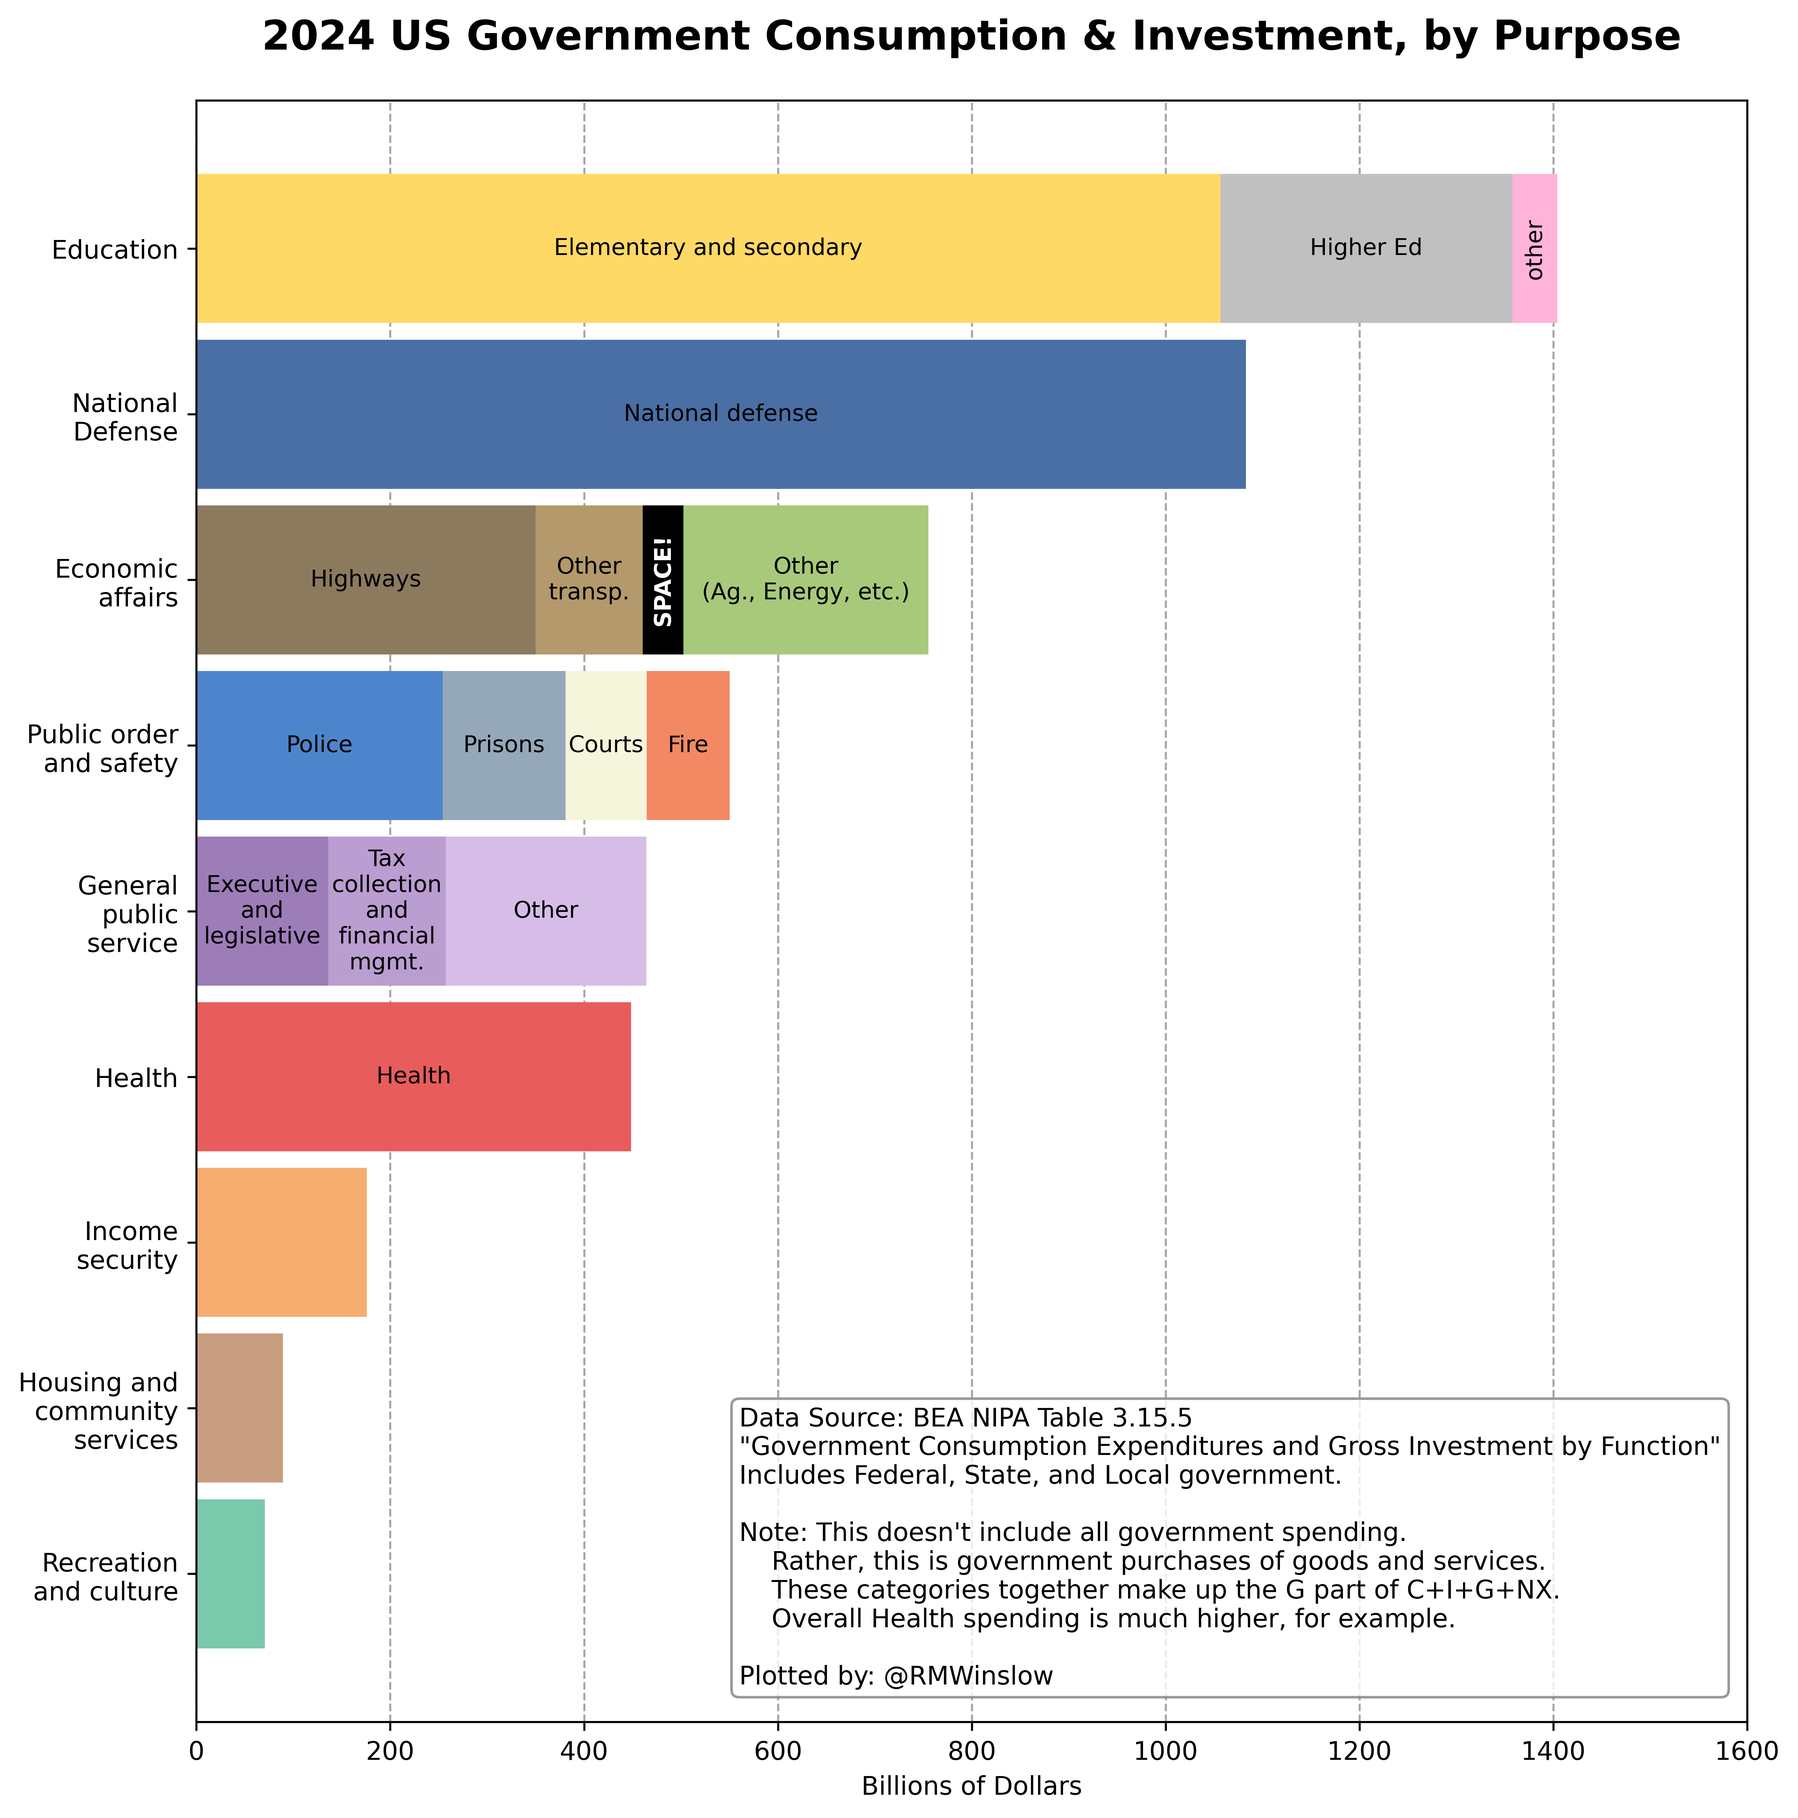
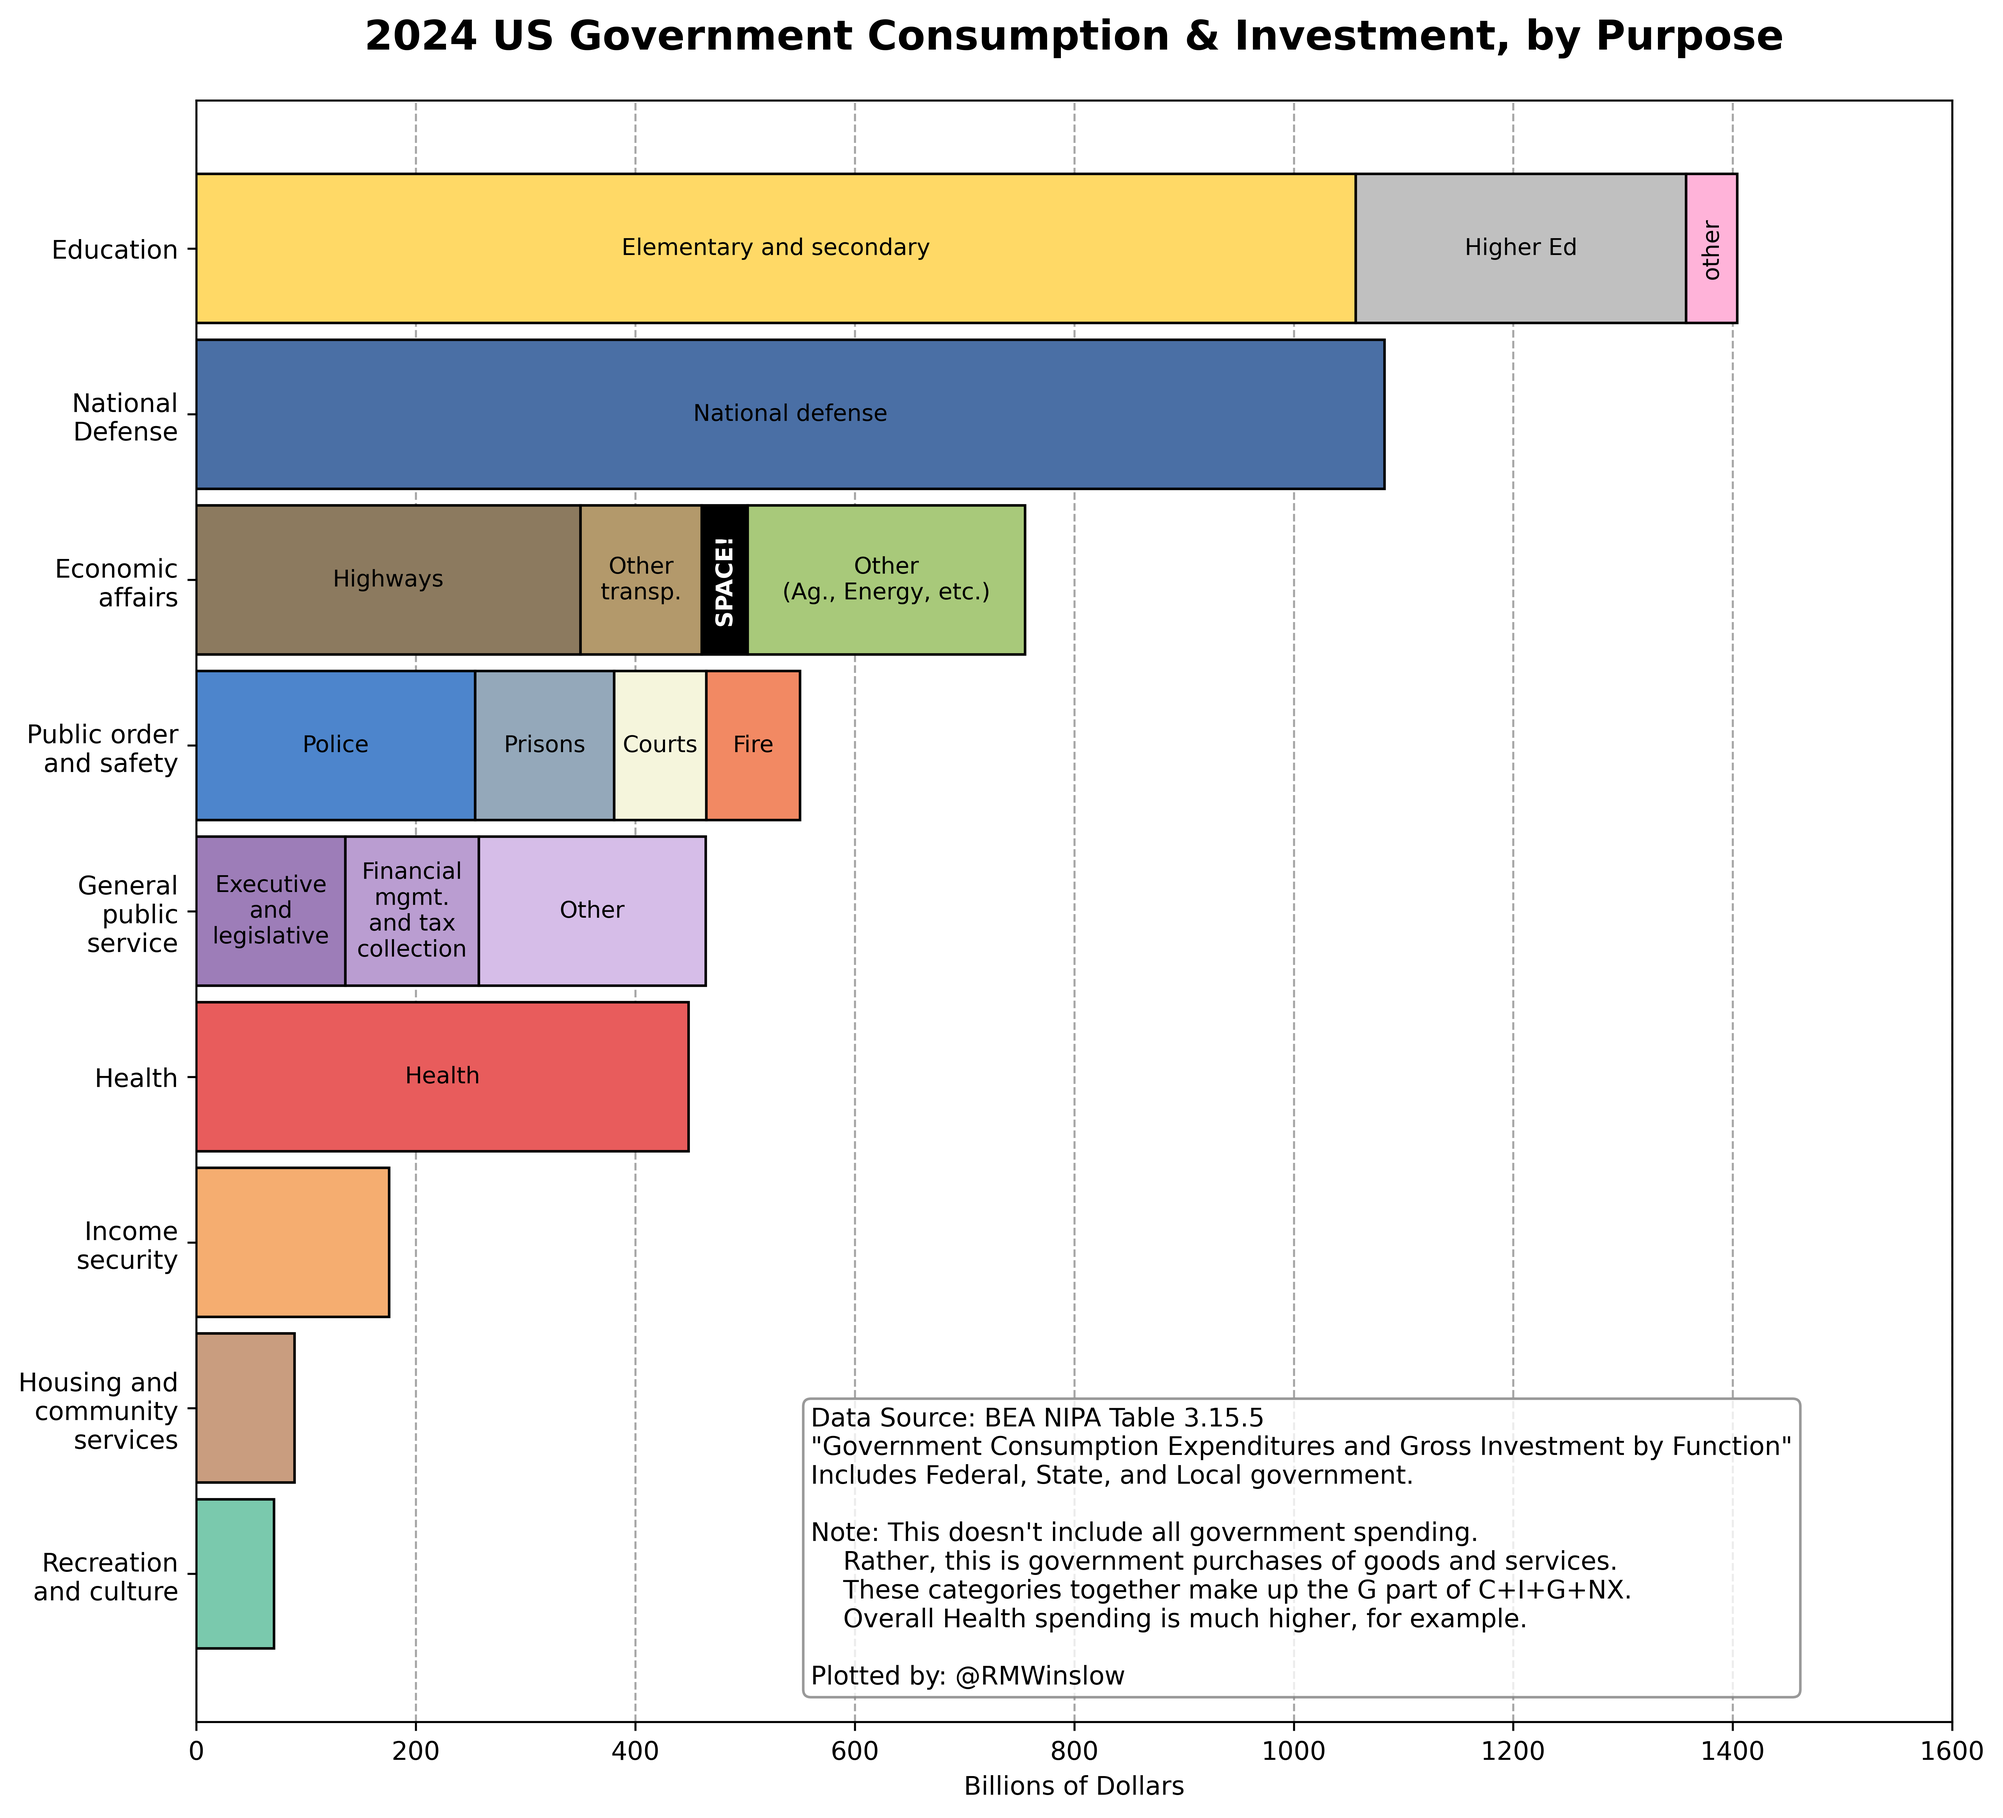
Further improvements to Gov Spending Charts
border color
alter bar colors
Still want to improve bar labelling.

diff --git a/econ/table 3.15.5/stacked_graph.py b/econ/table 3.15.5/stacked_graph.py
@@ -13,7 +13,8 @@ import matplotlib.patheffects as pe
 
 def plot_budget_stacked_bars(budget_data, title, info_text, output_filename=None, 
                              figsize=(10,10), bar_height=0.9, dpi=600, xlim=None,
-                             SHOW_VALUE=False):
+                             SHOW_VALUE=False,
+                             border_width=1, border_color='black'):
     """
     Create a horizontal stacked bar chart for budget data.
     
@@ -66,7 +67,8 @@ def plot_budget_stacked_bars(budget_data, title, info_text, output_filename=None
         for j, (subcomp, color, value) in enumerate(subcomponents):
             # Plot bar with specific color, higher zorder
             bar = ax.barh(y[i], value, bar_height, label=subcomp if i == 0 else None, 
-                          left=left, color=color, zorder=2)
+                          left=left, color=color, zorder=2,
+                          edgecolor=border_color, linewidth=border_width)
             # Add label on bar only if category has multiple subcomponents
             width = bar[0].get_width()
             if len(subcomponents) > 1 or width > 200: 
@@ -141,7 +143,7 @@ budget_data_2024 = [
     ('Public order\nand safety', 'Fire', '#F28963', 85.5),
     
     ('General\npublic\nservice', 'Executive\nand\nlegislative', '#9D7DB8', 135.9),
-    ('General\npublic\nservice', 'Tax\ncollection\nand\nfinancial\nmgmt.', '#BA9DD1', 121.4),
+    ('General\npublic\nservice', 'Financial\nmgmt.\nand tax\ncollection', '#BA9DD1', 121.4),
     ('General\npublic\nservice', 'Other', '#D6BDE8', 207.0),
     
     ('Health', 'Health', '#E85C5C', 448.6),
@@ -172,6 +174,8 @@ fig, ax = plot_budget_stacked_bars(
     title_2024, 
     info_text_2024,
     output_filename='stacked_G_graph_2024.png',
+    figsize=(11,10),
+    # xlim=(0,1500),
 )
 
 plt.show()
@@ -182,61 +186,64 @@ plt.show()
 
 #%% Combined Gov Spending with Transfers and Interest Payments
 
-#TODO: Just use Gov Purchases as shorthand.
 
-budget_data_2024_with_transfers_and_interest = budget_data_2024 + [
-    ('General\npublic\nservice', 'Interest payments', '#B0B0B0', 1397.6),
-    # Then the Current Transfers for each category
-    # ('General\npublic\nservice', 'Current transfers', '#D6BDE8', 74.2),
-    # ('National\nDefense', 'Current transfers', '#C0C0C0', 0.8),
-    # ('Public order\nand safety', 'Current transfers', "#F5F5DC", 0.5),
-    # ('Economic\naffairs', 'Current transfers', '#A8C97A', 11.5),
-    # ('Housing and\ncommunity\nservices', 'Current transfers', '#C99D7F', 1.2),
-    # ('Health', 'Current transfers', '#E85C5C', 2258.7),
-    # ('Recreation\nand culture', 'Current transfers', '#7AC9AD', 0.8),
-    # ('Education', 'Current transfers', '#FFB3D9', 132.3),
-    # ('Income\nsecurity', 'Current transfers', '#F5AD70', 2097.6),
-    # Subsidies and Current Transfers for each category
-    ('General\npublic\nservice', 'Subsidies & transfers', '#FF00FF', 74.2),
-    ('National\nDefense', 'Subsidies & transfers', '#FF00FF', 0.8),
-    ('Public order\nand safety', 'Subsidies & transfers', "#FF00FF", 0.5),
-    ('Economic\naffairs', 'Subsidies & transfers', '#FF00FF', 42.0),
-    ('Housing and\ncommunity\nservices', 'Subsidies & transfers', '#FF00FF', 64.0),
-    ('Health', 'Subsidies & transfers', '#FF00FF', 2259.7),
-    ('Recreation\nand culture', 'Subsidies & transfers', '#FF00FF', 0.8),
-    ('Education', 'Subsidies & transfers', '#FF00FF', 132.3),
-    ('Income\nsecurity', 'Subsidies & transfers', '#FF00FF', 2097.6),
-     
-]
+# budget_data_2024_with_transfers_and_interest = budget_data_2024 + [
+#     ('General\npublic\nservice', 'Interest payments', '#B0B0B0', 1397.6),
+#     # Then the Current Transfers for each category
+#     # ('General\npublic\nservice', 'Current transfers', '#D6BDE8', 74.2),
+#     # ('National\nDefense', 'Current transfers', '#C0C0C0', 0.8),
+#     # ('Public order\nand safety', 'Current transfers', "#F5F5DC", 0.5),
+#     # ('Economic\naffairs', 'Current transfers', '#A8C97A', 11.5),
+#     # ('Housing and\ncommunity\nservices', 'Current transfers', '#C99D7F', 1.2),
+#     # ('Health', 'Current transfers', '#E85C5C', 2258.7),
+#     # ('Recreation\nand culture', 'Current transfers', '#7AC9AD', 0.8),
+#     # ('Education', 'Current transfers', '#FFB3D9', 132.3),
+#     # ('Income\nsecurity', 'Current transfers', '#F5AD70', 2097.6),
+#     # Subsidies and Current Transfers for each category
+#     ('General\npublic\nservice', 'Subsidies & transfers', '#FF00FF', 74.2),
+#     ('National\nDefense', 'Subsidies & transfers', '#FF00FF', 0.8),
+#     ('Public order\nand safety', 'Subsidies & transfers', "#FF00FF", 0.5),
+#     ('Economic\naffairs', 'Subsidies & transfers', '#FF00FF', 42.0),
+#     ('Housing and\ncommunity\nservices', 'Subsidies & transfers', '#FF00FF', 64.0),
+#     ('Health', 'Subsidies & transfers', '#FF00FF', 2259.7),
+#     ('Recreation\nand culture', 'Subsidies & transfers', '#FF00FF', 0.8),
+#     ('Education', 'Subsidies & transfers', '#FF00FF', 132.3),
+#     ('Income\nsecurity', 'Subsidies & transfers', '#FF00FF', 2097.6),
+# ]
+
+
+TRANSFER_COLOR = '#f6f'  # bright magenta for transfers
 
 budget_data_2024_with_transfers_and_interest = [
     ('Education', 'Elementary and secondary', '#FFD966', 1056.5),
     ('Education', 'Higher Ed', '#C0C0C0', 301.1),
     ('Education', 'other', '#FFB3D9', 46.5),
-    ('Education', 'Transfers', '#f0f', 132.3), # sliver for transfers
+    ('Education', 'Transfers', TRANSFER_COLOR, 132.3), # sliver for transfers
     
     ('National\nDefense', 'National defense', '#4A6FA5', 1082.7),
     # 0.8 sliver for transfers (Really, then where does the military foreign aid go?)
-    ('National\nDefense', '', '#f0f', 0.8), # sliver for transfers
-    
+    ('National\nDefense', '', TRANSFER_COLOR, 0.8), # sliver for transfers
+    #TODO: Use Table 3.11.5 to break down into More detailed categories.
+
+
     ('Economic\naffairs', 'Highways', '#8C7A5F', 350.0),
     ('Economic\naffairs', 'Other\ntransp.', '#B3996B', 110.6),
     ('Economic\naffairs', 'SPACE!', "#000000", 41.9), 
     ('Economic\naffairs', 'Other\n(Ag., Energy, etc.)', '#A8C97A', 252.7),
-    ('Economic\naffairs', 'Subsidies\n& Transfers', '#f0f', 56.3),
+    ('Economic\naffairs', 'Subsidies\n& Transfers', TRANSFER_COLOR, 56.3),
 
     
     ('Public order\nand safety', 'Police', '#4D85CC', 254.2),
     ('Public order\nand safety', 'Prisons', '#94A8BA', 126.6),
     ('Public order\nand safety', 'Courts', "#F5F5DC", 83.9),
     ('Public order\nand safety', 'Fire', '#F28963', 85.5),
-    ('Public order\nand safety', '', "#f0f", 0.5), #sliver for transfers
+    ('Public order\nand safety', '', TRANSFER_COLOR, 0.5), #sliver for transfers
     
     ('General\npublic\nservice', 'Executive\nand\nlegislative', '#9D7DB8', 135.9),
-    ('General\npublic\nservice', 'Tax\ncollection\nand\nfinancial\nmgmt.', '#BA9DD1', 121.4),
+    ('General\npublic\nservice', 'Financial\nmgmt.\n and tax\ncollection', '#BA9DD1', 121.4),
     ('General\npublic\nservice', 'Other', '#D6BDE8', 207.0),
-    ('General\npublic\nservice', 'Interest\npayments', '#B0B0B0', 1397.6),
-    ('General\npublic\nservice', 'Transfers', '#FF00FF', 117.3),
+    ('General\npublic\nservice', 'Interest payments', '#8f9', 1397.6),
+    ('General\npublic\nservice', 'Transfers', TRANSFER_COLOR, 117.3),
 
 
     	
@@ -264,8 +271,8 @@ budget_data_2024_with_transfers_and_interest = [
     ('Health', 'Government Health Consumption\nand Investment (net of fees)', '#E85C5C', 448.6), 
     ('Health', 'Medicare', '#c33', 1102.4),
     ('Health', 'Medicaid', '#e68697', 938.2),
-    ('Health', 'Other\ntransfers', '#d77', 229.5),
-    ('Health', '', '#f0f', 1), #1 billion subsidy as sliver
+    ('Health', 'Other\ntransfers', TRANSFER_COLOR, 229.5),
+    ('Health', '', TRANSFER_COLOR, 1), #1 billion subsidy as sliver
 
 
     # C+Transfers / C+I
@@ -292,12 +299,12 @@ budget_data_2024_with_transfers_and_interest = [
     # per 3.12, Social Security is 1448, Veterans Pension and disability	180.5
     # SNAP is 97.4
     ('Income\nsecurity', 'Purchases', '#F5AD70', 175.7),
-    ('Income\nsecurity', 'Social\nSecurity', '#d98', 1448.0),
+    ('Income\nsecurity', 'Social Security', '#d98', 1448.0),
     ('Income\nsecurity', 'Veterans\nPension\n& Disability', '#e6b', 180.5),
     ('Income\nsecurity', 'SNAP', '#f9d', 97.4),
     ('Income\nsecurity', 'Unemp.', '#fcd', 36.7),
     # ('Income\nsecurity', 'Other\ntransfers', '#fbc', 386.9), #2112.8-SS-VPD-SNAP
-    ('Income\nsecurity', 'Other\ntransfers', '#fbc', 350.2), #2112.8-SS-VPD-SNAP-UI
+    ('Income\nsecurity', 'Other\ntransfers', TRANSFER_COLOR, 350.2), #2112.8-SS-VPD-SNAP-UI
 
 
 
@@ -305,10 +312,10 @@ budget_data_2024_with_transfers_and_interest = [
 
 
     ('Housing and\ncommunity\nservices', '', '#C99D7F', 89.4), #Purchases
-    ('Housing and\ncommunity\nservices', 'Subsidies\n& Transfers', '#dc9', 76.6),
+    ('Housing and\ncommunity\nservices', 'Subsidies\n& Transfers', TRANSFER_COLOR, 76.6),
     
     ('Recreation\nand culture', '', '#7AC9AD', 70.8),
-    ('Recreation\nand culture', '', '#f0f', 0.8), # sliver for transfers
+    ('Recreation\nand culture', '', TRANSFER_COLOR, 0.8), # sliver for transfers
 
 
     # Not sure whether this should be its own line.
@@ -344,7 +351,9 @@ fig, ax = plot_budget_stacked_bars(
     '2024 US Government Expenditures, by Purpose', 
     info_text_2024,
     output_filename='stacked_G_spending_graph_2024.png',
-    figsize=(16,10),
+    figsize=(18,11),
+    xlim=(0,2800),
+    bar_height=0.9,
 )
 
 plt.show()
